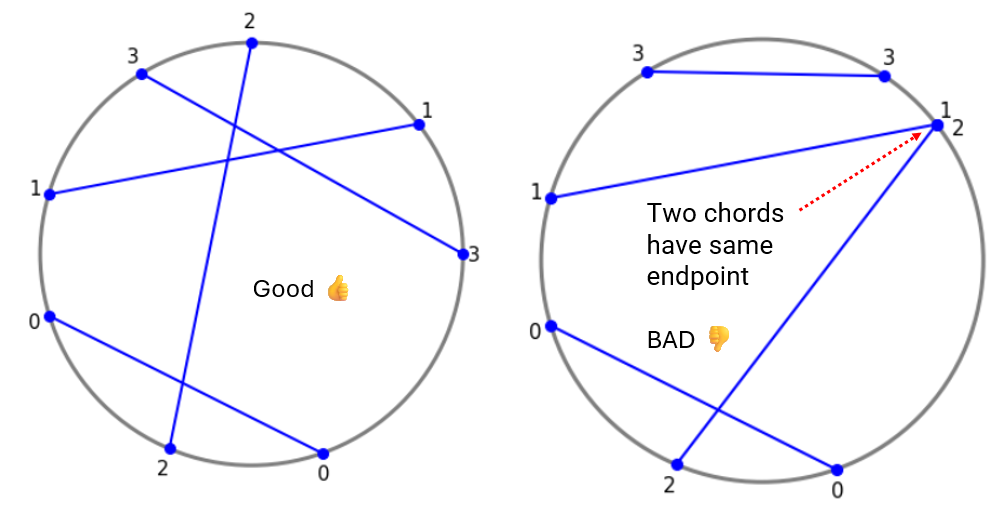
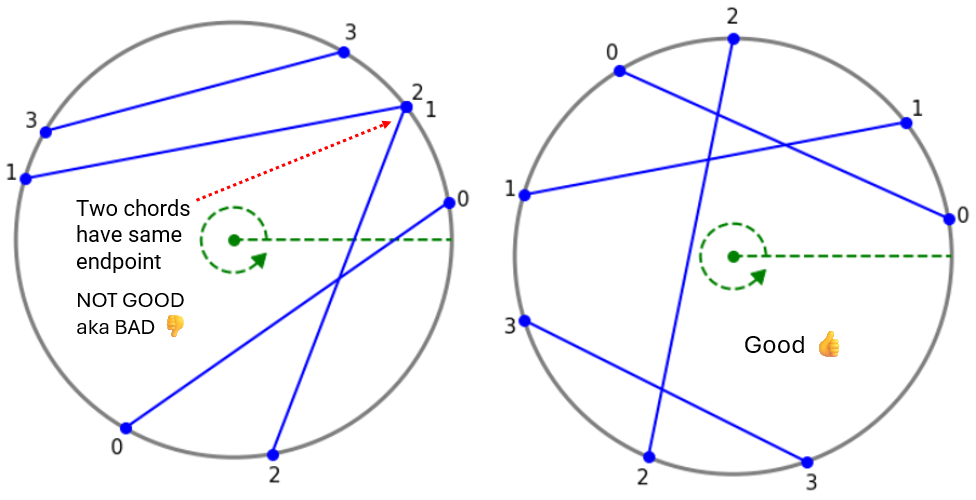
update

diff --git a/_posts/2024-03-12-chord-intersections.md b/_posts/2024-03-12-chord-intersections.md
@@ -10,11 +10,11 @@ In this post I'll explain a cool way to use annotated trees to solve a naively $
 
 ## The Problem
 
-Let's start with a circle, then draw a few [chords](https://en.wikipedia.org/wiki/Chord_(geometry)) on its circumference. For simplicity, assume no chords have any identical endpoints, as shown below. 
+Let's start with a circle, then draw a few [chords](https://en.wikipedia.org/wiki/Chord_(geometry)) on its circumference. For simplicity, assume no chords have any identical endpoints. Now let's assign a numeric label to each chord. Starting on the right end of the circle and moving counterclockwise, we can begin searching for chord endpoints. Every time we encounter the endpoint of a newly seen chord, we can assign that chord the next label. So the first endpoint we see will be from Chord 0. Of course, if we encounter the endpoint of an already-labeled chord, that doesn't impact our labeling. 
 
 <p align="center" width="100%">
-    <img width="85%" src="/assets/images/chord1.png"> <br>
-    Figure 1 [5]
+    <img width="100%" src="/assets/images/chord1.png"> <br>
+    Figure 1
 </p>
 
 ## Slow algorithm
